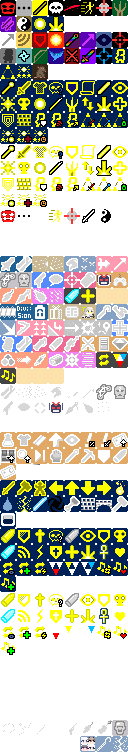
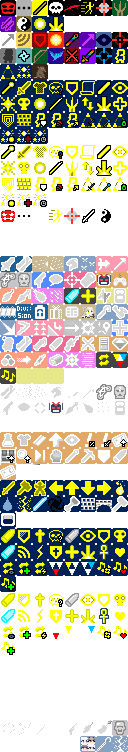
쿠루미 EX2 능력 아이콘 수정

Changed region(s): [[0.75, 0.367, 1.0, 0.4282], [0.125, 0.4894, 0.5, 0.5199], [0.875, 0.5199, 1.0, 0.5505]]

diff --git a/core/src/main/java/com/shatteredpixel/shatteredpixeldungeon/actors/buffs/FlashShieldBuff.java b/core/src/main/java/com/shatteredpixel/shatteredpixeldungeon/actors/buffs/FlashShieldBuff.java
@@ -19,10 +19,12 @@ import com.shatteredpixel.shatteredpixeldungeon.sprites.ItemSprite;
 import com.shatteredpixel.shatteredpixeldungeon.sprites.ItemSpriteSheet;
 import com.shatteredpixel.shatteredpixeldungeon.ui.ActionIndicator;
 import com.shatteredpixel.shatteredpixeldungeon.ui.BuffIndicator;
+import com.shatteredpixel.shatteredpixeldungeon.ui.HeroIcon;
 import com.watabou.noosa.Image;
 import com.watabou.noosa.Visual;
 import com.watabou.noosa.audio.Sample;
 import com.watabou.utils.Bundle;
+import com.watabou.utils.Callback;
 import com.watabou.utils.Random;
 
 import java.util.ArrayList;
@@ -59,10 +61,8 @@ public class FlashShieldBuff extends Buff implements ActionIndicator.Action {
     }
 
     @Override
-    public Visual primaryVisual() {
-        Image icon;
-        icon = new ItemSprite(ItemSpriteSheet.FLASH_SHIELD);
-        return icon;
+    public int actionIcon() {
+        return HeroIcon.SHIELD_DEPLOY_ACTION;
     }
 
     @Override
@@ -84,6 +84,12 @@ public class FlashShieldBuff extends Buff implements ActionIndicator.Action {
             hero.yellP("flash_shield_"+Random.Int(1, 3));
             hero.busy();
             ArrayList<Char> affected = new ArrayList<>();
+            hero.sprite.zap(cell, new Callback() {
+                @Override
+                public void call() {
+                    hero.sprite.idle();
+                }
+            });
 
             Ballistica aim = new Ballistica(hero.pos, cell, Ballistica.WONT_STOP);
             int distance = 4;
